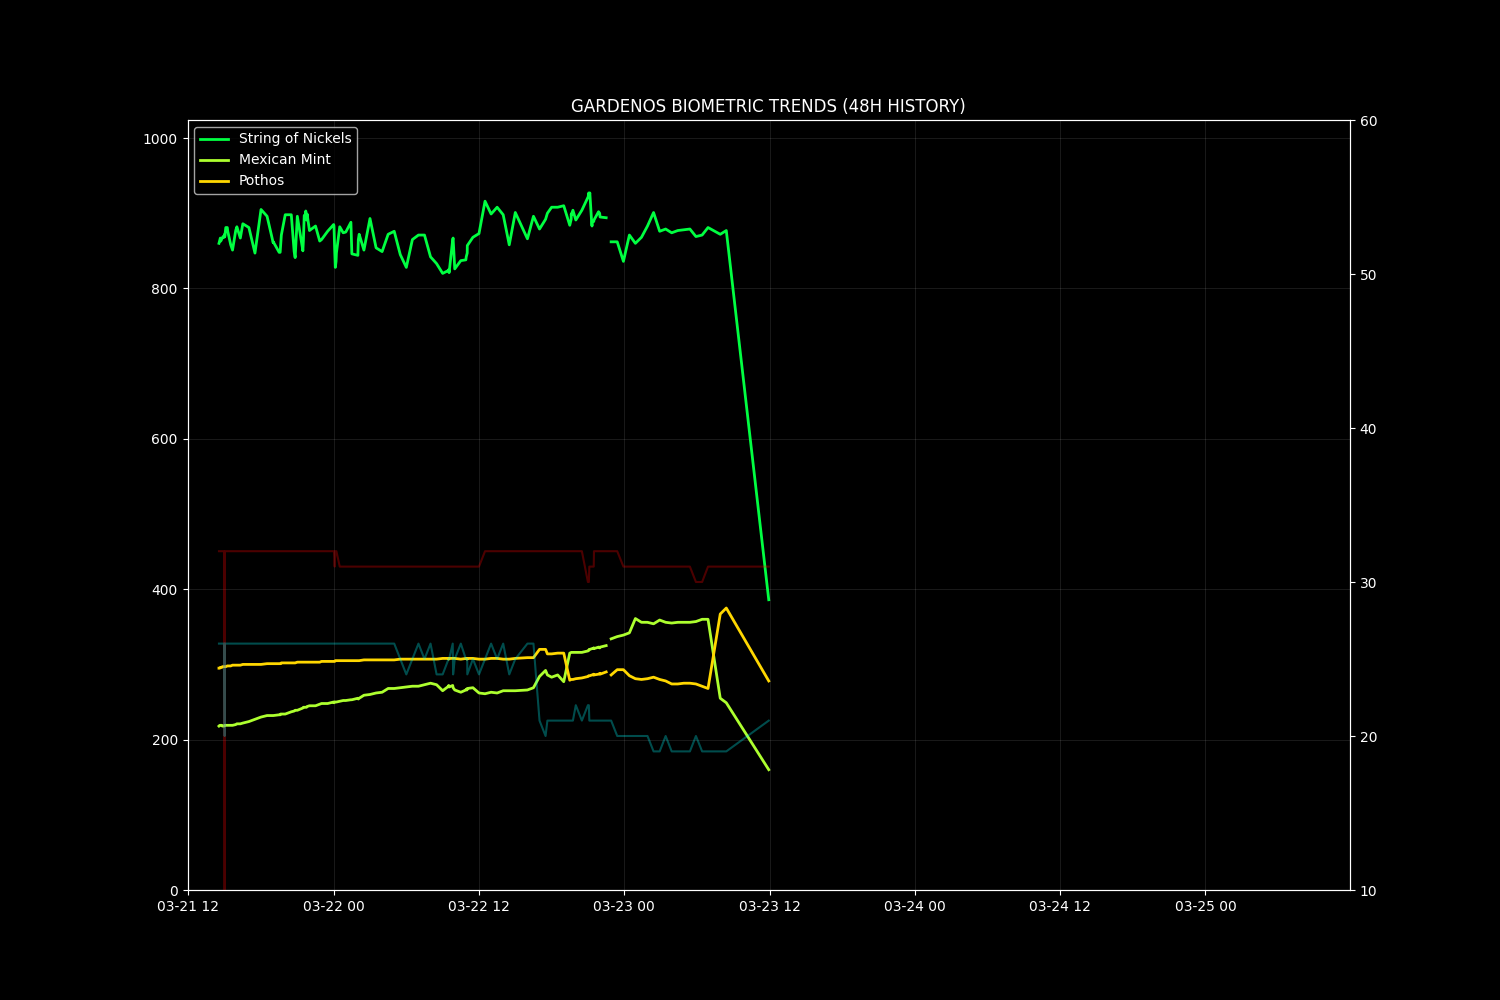
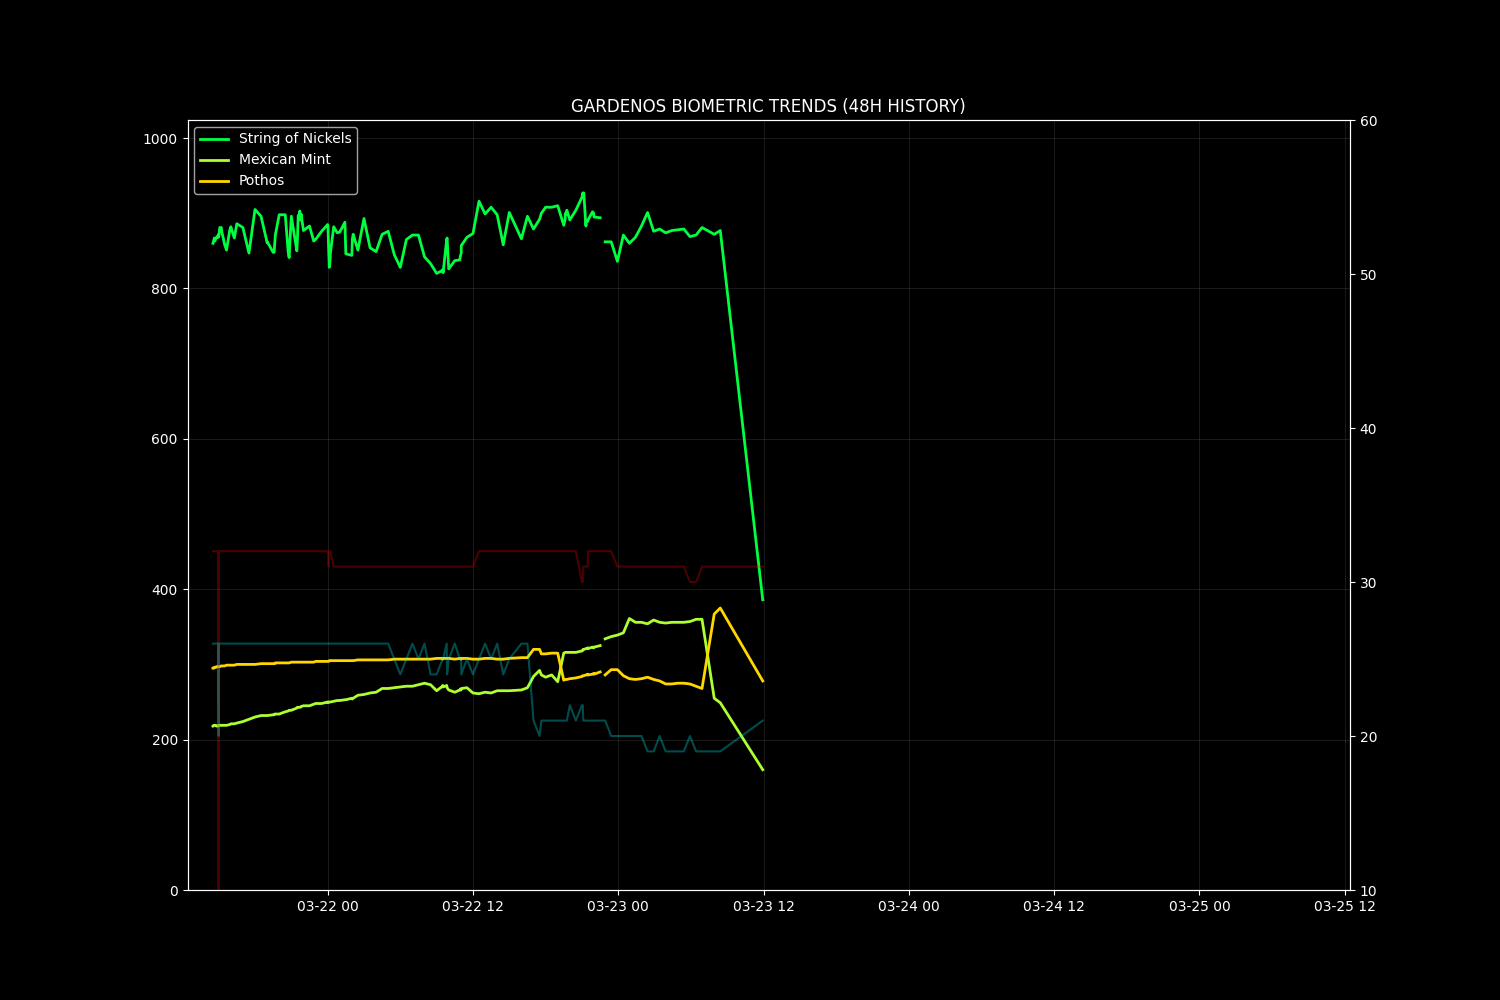
Warden Cycle: 2026-03-23 12:25:58

diff --git a/docs/data/observer_context.md b/docs/data/observer_context.md
@@ -1,10 +1,9 @@
 # 📝 Garden Observer Context
-**Generated:** 2026-03-23 10:58:02
+**Generated:** 2026-03-23 11:58:01
 
 ## 1. 🌡 Recent Telemetry (Last 12 Readings)
 ```csv
 timestamp,temp,hum,light,p1,p2,p3
-2026-03-23 02:25:26,31.0,19.0,897,901.0,354.0,283.0
 2026-03-23 02:55:39,31.0,19.0,889,876.0,359.0,280.0
 2026-03-23 03:25:16,31.0,20.0,890,879.0,356.0,278.0
 2026-03-23 03:55:15,31.0,19.0,888,874.0,355.0,274.0
@@ -16,14 +15,13 @@ timestamp,temp,hum,light,p1,p2,p3
 2026-03-23 06:55:15,31.0,19.0,788,881.0,360.0,268.0
 2026-03-23 07:55:50,31.0,19.0,726,872.0,255.0,367.0
 2026-03-23 08:25:45,31.0,19.0,704,877.0,249.0,375.0
+2026-03-23 11:56:08,31.0,21.0,702,386.0,160.0,278.0
 
 ```
 
 ## 2. 📊 Computed Metrics (Last 12 Calculations)
 ```csv
 timestamp,vpd,p1_pct,p1_slope,p2_pct,p2_slope,p3_pct,p3_slope,p4_pct,p4_slope,p5_pct,p5_slope,p6_pct,p6_slope
-2026-03-23 05:25:27,3.639,10.9,True,87.5,False,74.0,False,85.0,False,,,,
-2026-03-23 05:55:20,3.394,12.5,True,87.7,False,73.8,False,85.2,False,,,,
 2026-03-23 06:26:03,3.437,12.2,True,88.2,False,73.3,False,85.8,False,,,,
 2026-03-23 06:55:15,3.639,10.6,True,88.7,False,73.3,False,86.4,False,,,,
 2026-03-23 06:55:15,3.639,10.6,True,73.3,False,88.7,False,,,,,,
@@ -34,6 +32,8 @@ timestamp,vpd,p1_pct,p1_slope,p2_pct,p2_slope,p3_pct,p3_slope,p4_pct,p4_slope,p5
 2026-03-23 08:25:45,3.639,11.2,True,91.8,False,70.8,False,,,,,,
 2026-03-23 08:25:45,3.639,11.2,True,91.8,False,70.8,False,,,,,,
 2026-03-23 08:25:45,3.639,11.2,True,91.8,False,70.8,False,,,,,,
+2026-03-23 08:25:45,3.639,11.2,True,91.8,False,70.8,False,,,,,,
+2026-03-23 11:56:08,3.549,86.8,False,100.0,False,87.0,False,,,,,,
 
 ```
 
